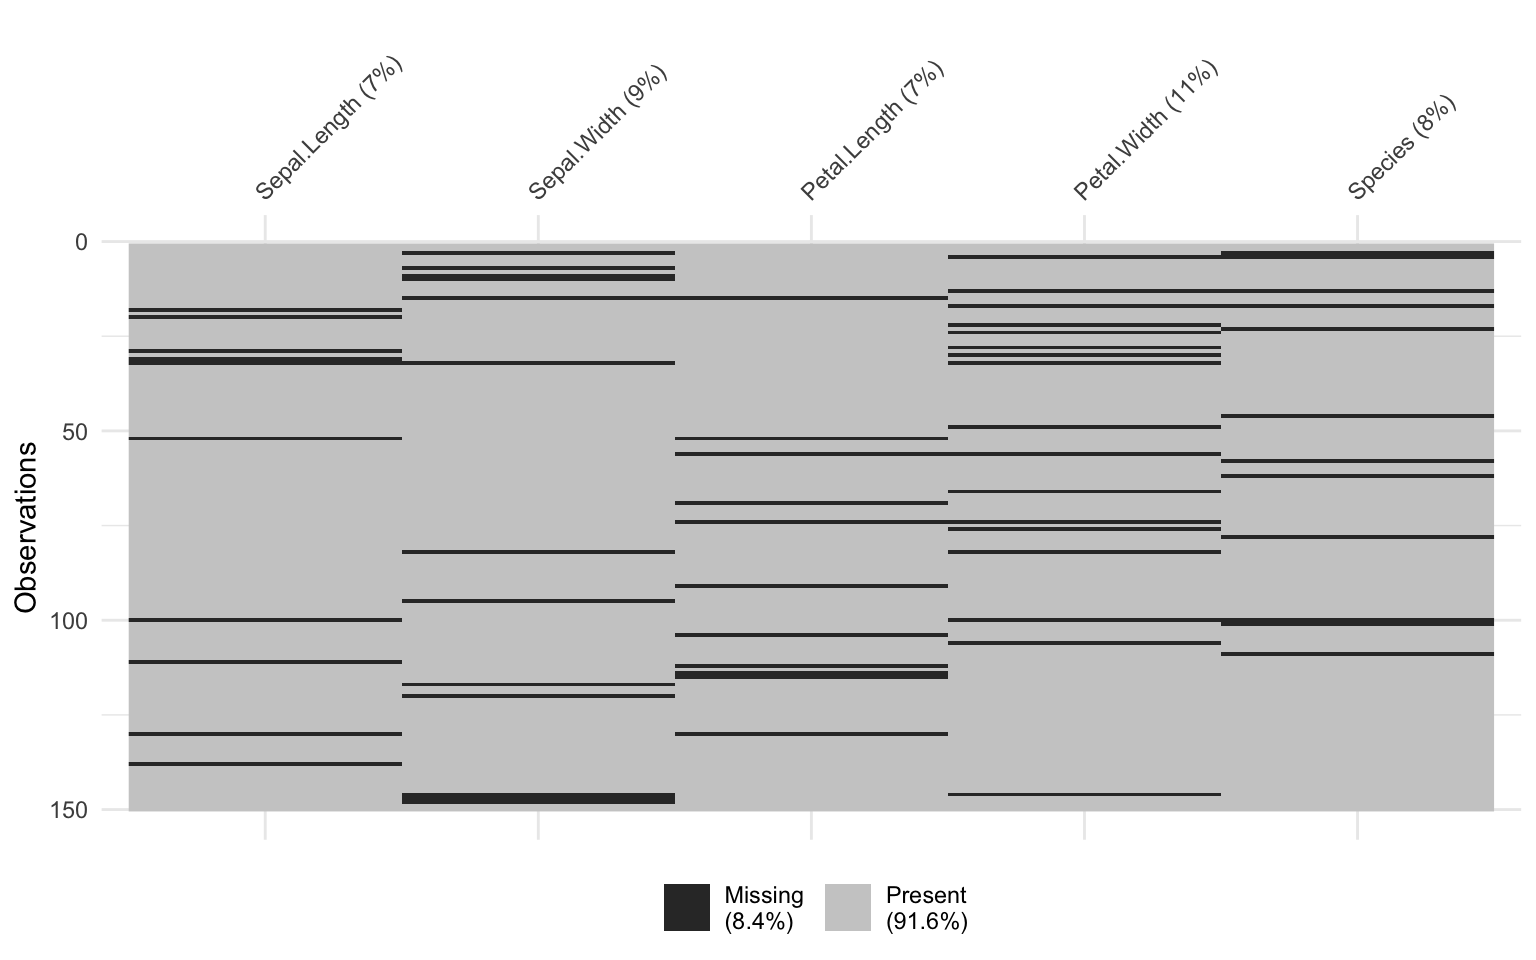
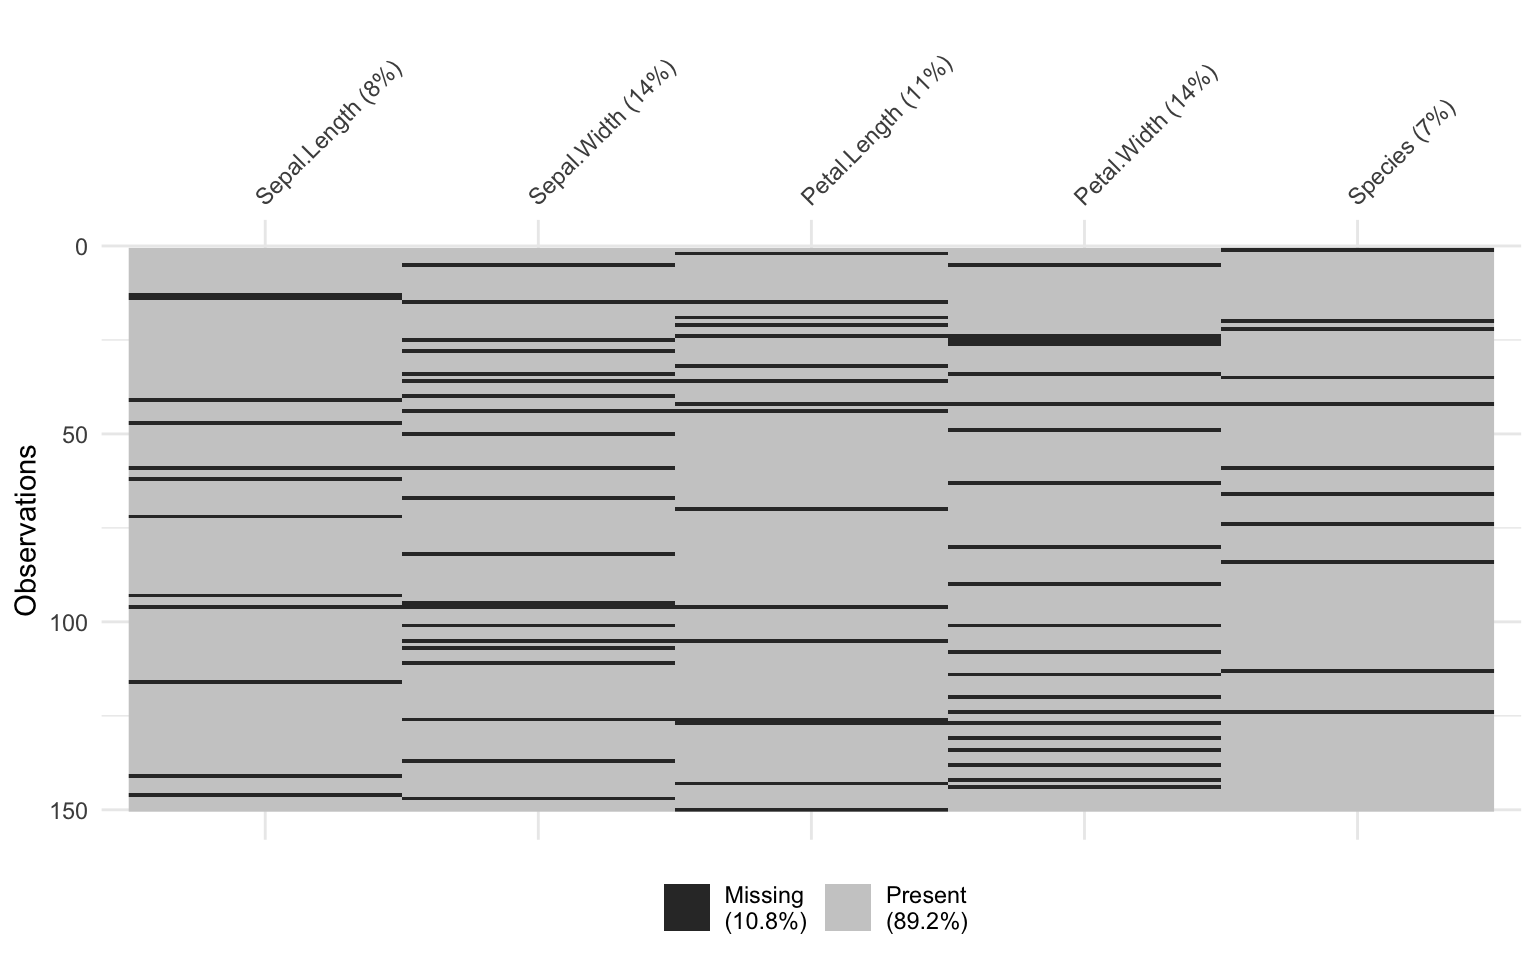
post datos perdidos

diff --git a/content/blog/2025-10-21/index.md b/content/blog/2025-10-21/index.md
@@ -1,0 +1,74 @@
+---
+title: Contar datos perdidos en una o varias columnas
+author: Bastián Olea Herrera
+date: '2025-10-21'
+slug: []
+categories: []
+tags:
+  - datos perdidos
+  - limpieza de datos
+format:
+  hugo-md:
+    output-file: index
+    output-ext: md
+excerpt: >-
+  Cuando estamos limpiando datos frecuentemente nos preguntamos cuántos datos
+  perdidos tiene una columna. La respuesta se obtiene pidiendo un resumen
+  (`summarize()`) que cuente la suma de datos perdidos (`sum(is.na())`) en una
+  columna específica. ¿Pero qué pasa si tienes muchas columnas? No vas a andar
+  escribiendo las columnas una por una... 😵💫 Usando las función `across()` de
+  `{dplyr}`, podemos aplicar la misma operación a todas las columnas de un
+  dataframe, y así obtener el conteo de datos perdidos de todas las columnas.
+---
+
+
+Cuando estamos limpiando datos frecuentemente nos preguntamos **cuántos [datos perdidos](../../../tags/datos-perdidos/) tiene una columna.** La respuesta se obtiene pidiendo un resumen (`summarize()`) que cuente la suma de datos perdidos (`sum(is.na())`) en una columna específica.
+
+``` r
+library(dplyr)
+
+# contar datos perdidos en una columna
+iris |> 
+  summarize(
+    missings = sum(is.na(Sepal.Length))
+  )
+```
+
+      missings
+    1        0
+
+¿Pero qué pasa si tienes muchas columnas y quieres revisarlo en todas? No vas a andar escribiendo las columnas una por una... 😵💫
+
+Usando las función `across()` de `{dplyr}`, podemos aplicar la misma operación a todas las columnas de un dataframe, y así obtener el **conteo de datos perdidos de todas las columnas.**
+
+Primero creemos datos perdidos al azar [con el paquete `{messy}` para ensuciar datos:](https://github.com/nrennie/messy)
+
+``` r
+library(messy)
+
+iris_m <- messy::make_missing(iris)
+```
+
+Ahora con `summarize()` calculamos un *resumen* de datos (es decir, reducir las filas de la tabla a un sólo resultado), especificando con `across()` que el resumen será *a través de* todas las columnas (`everything()`), y finalmente pedimos que el resumen sea la suma (`sum()`) de los datos de cada columna (`.x`) que son *missing* `is.na()`.
+
+``` r
+library(dplyr)
+
+iris_m |>
+  # resumir los datos
+  summarize(
+    # a través de todas las columnas
+    across(
+      everything(),
+      # contar la cantidad de missings
+      ~sum(is.na(.x))
+    )
+  )
+```
+
+      Sepal.Length Sepal.Width Petal.Length Petal.Width Species
+    1           15          13           19          13      17
+
+Si quieres saber los datos perdidos sólo en las **columnas numéricas**, en vez de `everything()` puedes usar `where(is.numeric)`, o si necesitas saberlo en un conjunto de columnas específicas, usa `starts_with()` o pon sus nombres dentro de `c()`.
+
+También hay otras formas de revisar [datos perdidos](../../../tags/datos-perdidos/), como por ejemplo con [el paquete `{visdat}`](../../../blog/visdat/) que **resume tus datos visualmente**.

diff --git a/content/blog/visdat/index.md b/content/blog/visdat/index.md
@@ -2,10 +2,12 @@
 title: Echa un vistazo preliminar a tus datos con {visdat}
 author: Bastián Olea Herrera
 date: '2025-08-08'
+freeze: true
 slug: []
 categories: []
 tags:
   - visualización de datos
+  - datos perdidos
   - limpieza de datos
   - consejos
 excerpt: >-
@@ -18,7 +20,7 @@ excerpt: >-
 ---
 
 
-En una clase reciente me preguntaron cómo saber de una dónde hay datos perdidos o *missing* en un conjunto de datos. La respuesta que di fue usar `summarize()` para contar la cantidad de datos perdidos en todas las columnas de un dataframe:
+En una clase reciente me preguntaron [cómo saber de una dónde hay datos perdidos o *missing*](../../../blog/2025-10-21/) en un conjunto de datos. La respuesta que di fue usar `summarize()` para contar la cantidad de datos perdidos en todas las columnas de un dataframe:
 
 ``` r
 library(dplyr) # manipulación de datos
@@ -40,7 +42,7 @@ iris_m |>
 ```
 
       Sepal.Length Sepal.Width Petal.Length Petal.Width Species
-    1           10          13           11          17      12
+    1           12          21           16          21      11
 
 Pero hay formas más convenientes de hacerlo!
 
